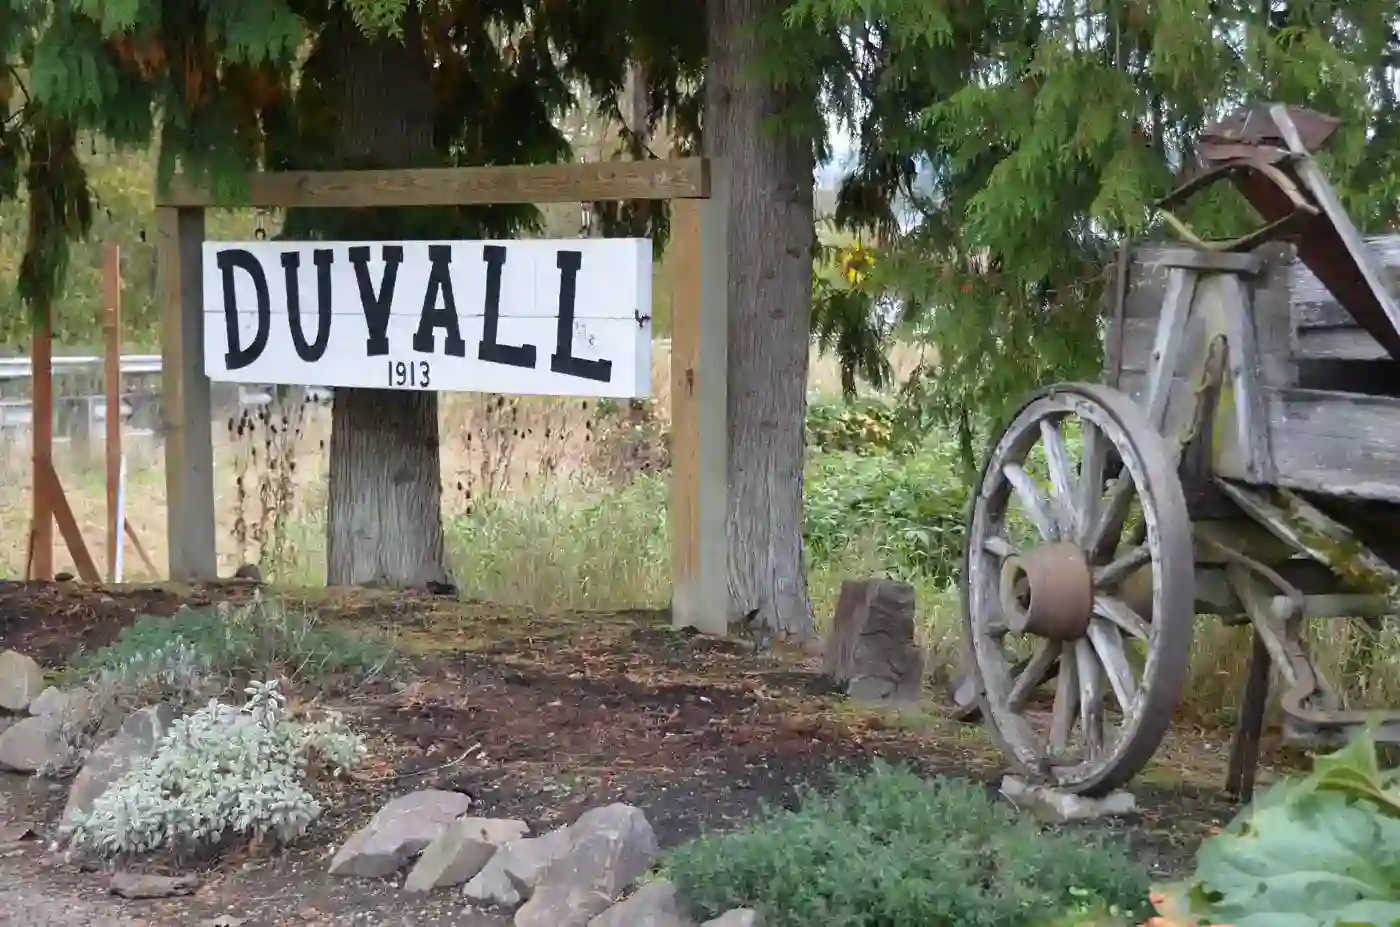
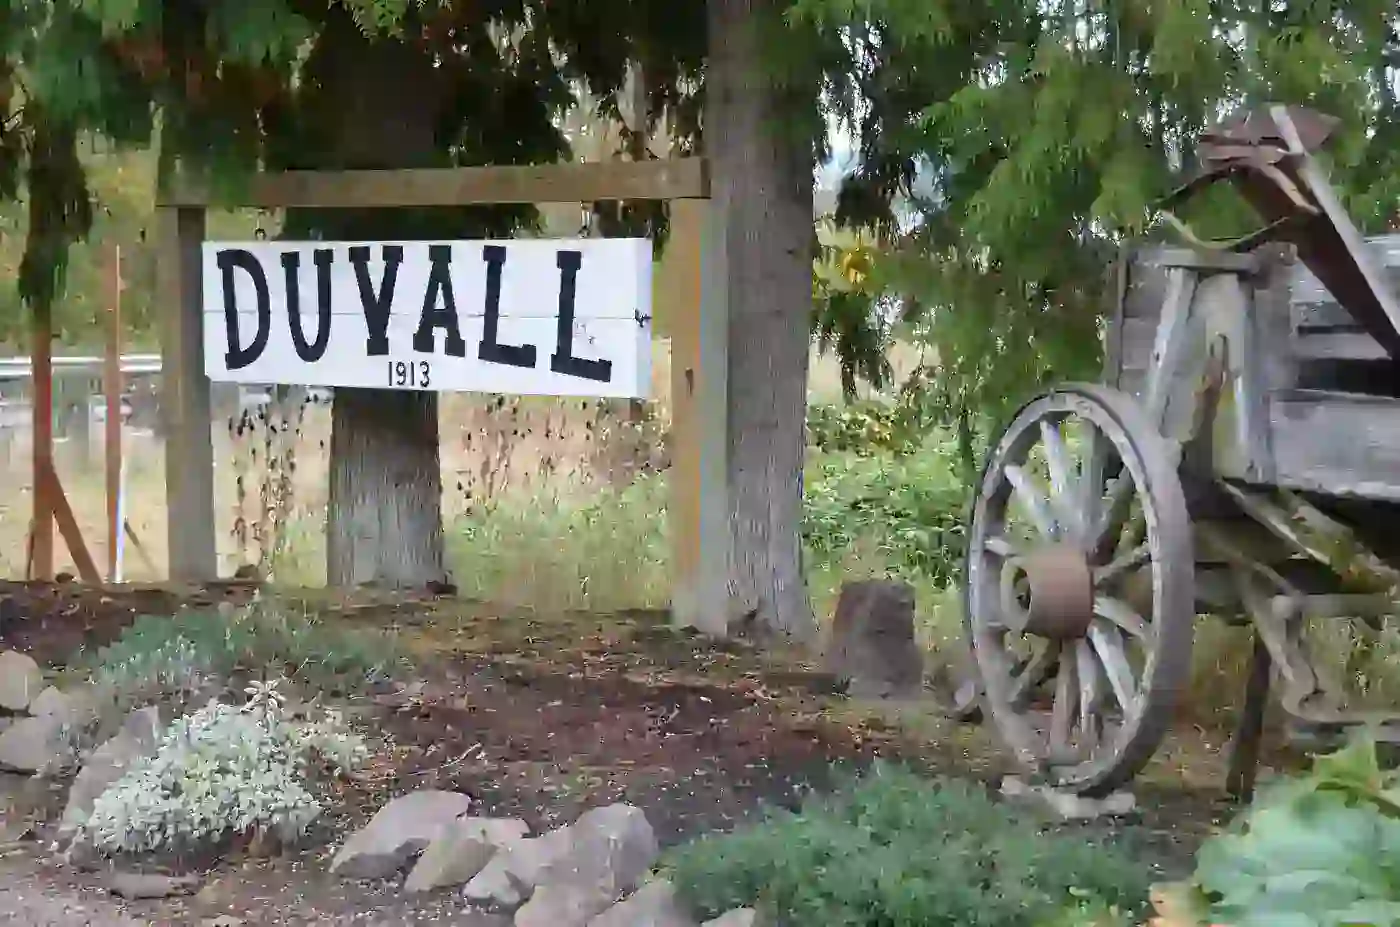
photos shrinked

diff --git a/chamber/index.html b/chamber/index.html
@@ -64,7 +64,7 @@
             <h2>News</h2>
             <section class="news">
                 <div class="story">
-                    <img src="images/library.jpg" alt="duvall library" class="news-photo" width="800" height="530">
+                    <img src="images/library.webp" alt="duvall library" class="news-photo" width="800" height="530">
                     <div class="news-text">
                         <h3>Old Duvall Library Becomes Community Center</h3>
                     <p>Starting next month, the old Duvall Library will reopen... <a href="">Read More</a></p>
@@ -131,9 +131,9 @@
         <section class="partners">
             <h2>Our Partners</h2>
             <div class="css-carousel">
-                <img src="images/cheris-place.jpg" alt="Cheri's Place Ad" class="cheri" width="1200" height="384">
+                <img src="images/cheris-place.webp" alt="Cheri's Place Ad" class="cheri" width="1200" height="384">
                 <img src="images/foundry-bar-and-grill.png" alt="Foundry Bar and Grill Ad" class="cheri" width="1200" height="384">
-                <img src="images/duvall-auto.jpg" alt="Duvall Auto Ad" class="cheri" width="1200" height="384">
+                <img src="images/duvall-auto.webp" alt="Duvall Auto Ad" class="cheri" width="1200" height="384">
             </div>
 
         </section>

diff --git a/chamber/discover.html b/chamber/discover.html
@@ -56,7 +56,7 @@
              </figure>
 
              <figure>
-                <img src="images/church.webp" alt="duvall church" loading="lazy" width="1400" height="2114" >
+                <img src="images/church.webp" alt="duvall church" loading="lazy" width="1010" height="1604" >
                 <figcaption>Duvall Church</figcaption>
              </figure>
 
